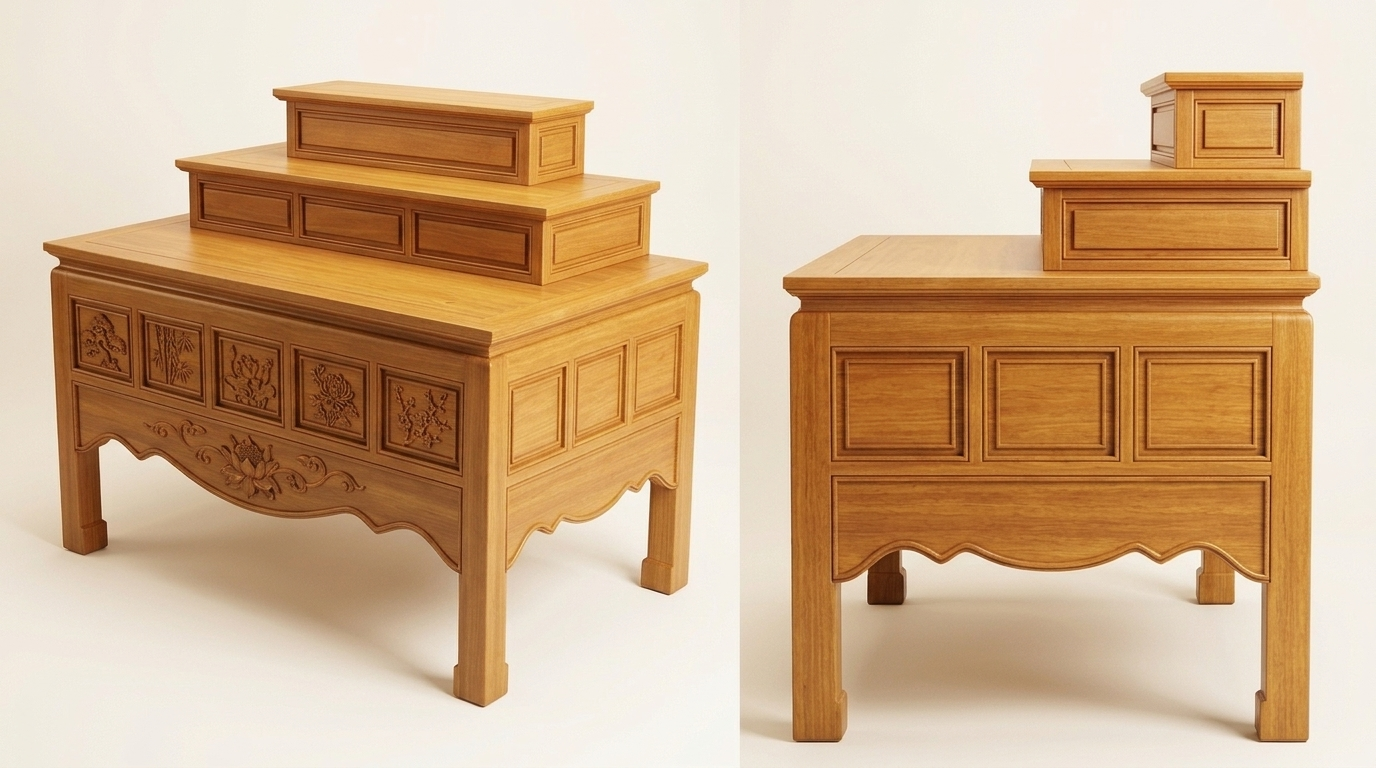
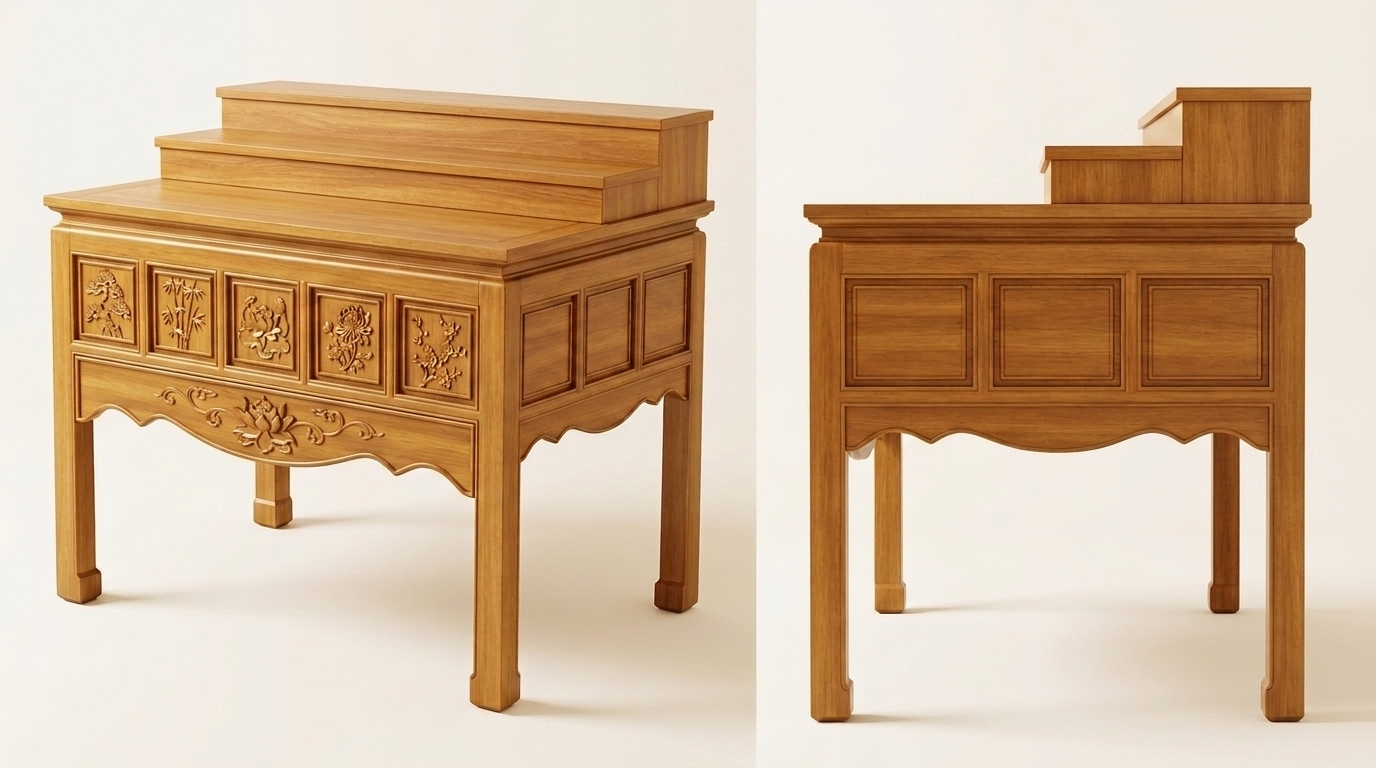
Update standalone Da D6 altar pack to equal-width 3-tier (1.97m all 3 tiers x 1.27m, 47cm Tam Cap) & remove tapered version

diff --git a/phong-tho-tang3.html b/phong-tho-tang3.html
@@ -1091,26 +1091,26 @@
     <!-- NEW TOP-MOST SECTION: BỘ ẢNH STUDIO RIÊNG BÀN THỜ ÁN GIAN Ô SA 5 Ô (DẠ D6) ĐỦ GÓC CHO THỢ MỘC (KHÔNG SẬP QUỲ) -->
     <section class="block" id="sec-ban-tho-rieng-da6-du-goc" style="border-color: rgba(52, 211, 153, 0.98); background: linear-gradient(180deg, rgba(6, 78, 59, 0.36), rgba(15, 21, 32, 0.99)); border-radius: 20px; padding: 28px 24px; margin-bottom: 22px;">
       <div class="section-hdr">
-        <span class="section-tag" style="background:rgba(16,185,129,0.28);border-color:rgba(52,211,153,0.98);color:#a7f3d0;">🪷 CHỐT BÀN THỜ RIÊNG CHO THỢ MỘC — TAM CẤP (3 CẤP) • DẠ D6 (ĐÃ TÁCH BỎ SẬP QUỲ)</span>
-        <h2 class="section-title">Bộ Ảnh Studio Riêng Bàn Thờ Tam Cấp Án Gian Ô Sa 5 Ô Tứ Quý — <code>Dạ D6</code> Đủ Mọi Góc (<code>1,97 m × 1,27 m</code> • Tam Cấp <code>47 cm</code>)</h2>
+        <span class="section-tag" style="background:rgba(16,185,129,0.28);border-color:rgba(52,211,153,0.98);color:#a7f3d0;">🪷 CHỐT BÀN THỜ RIÊNG CHO THỢ MỘC — 3 CẤP BẰNG NHAU CHIỀU DÀI (1,97M) • DẠ D6</span>
+        <h2 class="section-title">Bộ Ảnh Studio Riêng Bàn Thờ <code>3</code> Cấp Chiều Dài Bằng Nhau (<code>1,97 m × 1,27 m</code> • Tam Cấp <code>47 cm</code>) — Án Gian Ô Sa 5 Ô &amp; <code>Dạ D6</code> Đủ Mọi Góc</h2>
         <p class="section-sub">
-          Đã cập nhật chuẩn xác sang dáng <strong>Bàn Thờ TAM CẤP (`3` cấp)</strong> theo kích thước thợ báo: <strong>Bàn Dài <code>1,97 m</code> × Rộng/Sâu <code>1,27 m</code> (<code>1.970 × 1.270 mm</code>) • Phần Tam Cấp sau <code>47 cm</code> (<code>470 mm</code>) • Chừa mặt Cấp 1 trước rộng <code>80 cm</code> (<code>800 mm</code>)</strong>, dùng <strong><code>Dạ D6</code> đặc <code>40 mm</code> (<code>0%</code> đục lỗ)</strong> bằng Gỗ Gụ Lào tự nhiên PU mờ <code>15%</code> và <strong>đã xóa hoàn toàn bản 2 cấp sai trước đó</strong> để tránh nhầm khi gửi xưởng:
+          Đã chỉnh sang đúng kiểu <strong><code>3</code> Cấp có chiều dài bằng nhau hết (cả <code>Cấp 1 = Cấp 2 = Cấp 3 = 1,97 m</code> bằng đầu phẳng hai bên hông, không thu bậc hai đầu)</strong> theo đúng kích thước thợ báo: <strong>Bàn <code>1,97 m × 1,27 m</code> (<code>1.970 × 1.270 mm</code>), Phần Tam Cấp <code>47 cm</code> (<code>470 mm</code>), chừa mặt Cấp 1 trước <code>80 cm</code> (<code>800 mm</code>)</strong>, dùng <strong><code>Dạ D6</code> đặc <code>40 mm</code> (<code>0%</code> lỗ thủng)</strong> — Gỗ Gụ Lào tự nhiên PU mờ <code>15%</code>:
         </p>
       </div>
 
       <!-- FULL-WIDTH 6000x4200 PX ALL-IN-ONE MULTI-ANGLE CARPENTER PACK -->
       <article class="media-card" style="border-color:rgba(52,211,153,0.98);margin-bottom:20px;">
         <div class="media-hdr">
-          <h3>📐 Tấm Tổng Hợp Gửi Thợ Mộc <code>6K</code> (`6000 × 4200 px`): Bàn Thờ Riêng Tam Cấp <code>Dạ D6</code> Đủ <code>4</code> Góc (<code>1,97m × 1,27m</code> • Tam Cấp <code>47cm</code>)</h3>
+          <h3>📐 Tấm Tổng Hợp Gửi Thợ Mộc <code>6K</code> (`6000 × 4200 px`): Bàn Thờ Riêng <code>3</code> Cấp Bằng Nhau (<code>1,97m</code>) • <code>Dạ D6</code> Đủ <code>4</code> Góc</h3>
           <div class="btn-group">
-            <button type="button" class="btn" onclick="openModal('assets/tang3_phong_tho_ban_tho_rieng_da6_du_4_goc_6k.png', 'Tấm tổng hợp 6K (6000 × 4200 px) chỉ riêng Bàn Thờ Tam Cấp (3 cấp) Án Gian Ô Sa 5 Ô Tứ Quý Dạ D6 theo kích thước thợ báo: Dài 1,97m × Rộng 1,27m (1.970 × 1.270 mm), Phần Tam Cấp 47 cm (470 mm), chừa mặt Cấp 1 trước 80 cm (800 mm), Gỗ Gụ Lào tự nhiên PU mờ 15%, 0% đục lỗ')">🔍 Zoom 1:1 Hồ Sơ 6K</button>
-            <a class="btn celadon" href="assets/tang3_phong_tho_ban_tho_rieng_da6_du_4_goc_6k.png" download="HoSo_6K_BanThoRieng_TamCap_1m97x1m27_DaD6_Du4Goc.png">⬇ Tải Tấm 6K Đủ 4 Góc PNG</a>
+            <button type="button" class="btn" onclick="openModal('assets/tang3_phong_tho_ban_tho_rieng_da6_du_4_goc_6k.png', 'Tấm tổng hợp 6K (6000 × 4200 px) riêng Bàn Thờ 3 cấp có chiều dài bằng nhau hết 1,97m (Cấp 1 = Cấp 2 = Cấp 3 = 1.970 mm) × Rộng 1.270 mm, Phần Tam Cấp 47 cm (470 mm), chừa mặt trước 80 cm (800 mm), Án Gian Ô Sa 5 Ô Tứ Quý Dạ D6 0% lỗ thủng gửi thợ mộc')">🔍 Zoom 1:1 Hồ Sơ 6K</button>
+            <a class="btn celadon" href="assets/tang3_phong_tho_ban_tho_rieng_da6_du_4_goc_6k.png" download="HoSo_6K_BanThoRieng_3CapBangNhau_1m97x1m27_DaD6.png">⬇ Tải Tấm 6K Đủ 4 Góc PNG</a>
           </div>
         </div>
         <div class="media-img-wrap">
           <img
             src="assets/tang3_phong_tho_ban_tho_rieng_da6_du_4_goc_6k.png"
-            alt="Tấm tổng hợp 6K 6000x4200 px hồ sơ gửi thợ mộc riêng bàn thờ Tam Cấp 3 cấp Án Gian Ô Sa 5 ô Tứ Quý Dạ D6 dài 1,97m rộng 1,27m phần tam cấp 47cm"
+            alt="Tấm tổng hợp 6K 6000x4200 px hồ sơ gửi thợ mộc riêng bàn thờ 3 cấp chiều dài bằng nhau 1,97m x 1,27m phần tam cấp 47cm Dạ D6"
             width="6000"
             height="4200"
             fetchpriority="high"
@@ -1118,7 +1118,7 @@
           />
         </div>
         <p class="media-caption">
-          <strong>Chỉ cần gửi 1 tấm <code>6K</code> này cho thợ mộc là đủ thi công:</strong> Đầy đủ <code>03</code> góc ảnh Studio Tam Cấp + hình chiếu kỹ thuật <code>1.970 × 1.270 mm</code> (Phần Tam Cấp `Cấp 2 + Cấp 3` sâu <code>470 mm / 47 cm</code>, chừa mặt Cấp 1 trước <code>800 mm / 80 cm</code>, hốc giấu ổ cắm <code>Y=950</code>) + cận cảnh <code>Dạ D6</code>.
+          <strong>Chỉ cần gửi 1 tấm <code>6K</code> này cho thợ mộc là đủ thi công:</strong> Gồm ảnh Studio <code>0°</code> + <code>45°/90°</code> của bản <strong><code>3</code> cấp dài bằng nhau <code>1,97 m</code></strong>, hình chiếu kỹ thuật <code>1.970 × 1.270 mm</code> (Tam Cấp `Cấp 2 + Cấp 3` sâu <code>470 mm / 47 cm</code>, chừa mặt trước <code>800 mm / 80 cm</code>, hốc giấu ổ cắm <code>Y=950</code>) + cận cảnh <code>Dạ D6</code>.
         </p>
       </article>
 
@@ -1126,60 +1126,60 @@
       <div class="render-grid" style="margin-bottom:20px;">
         <article class="media-card" style="border-color:rgba(250,204,21,0.95);">
           <div class="media-hdr">
-            <h3>🪵 Ảnh Studio #17 — Riêng Bàn Thờ Tam Cấp <code>Dạ D6</code> Góc Chính Diện <code>0°</code> Cỡ Lớn (Đủ <code>3</code> Cấp)</h3>
+            <h3>🪵 Ảnh Studio #17 — Riêng Bàn Thờ <code>3</code> Cấp Bằng Nhau (<code>1,97m</code>) • Góc Chính Diện <code>0°</code> Cỡ Lớn</h3>
             <div class="btn-group">
-              <button type="button" class="btn" onclick="openModal('assets/17_studio_rieng_ban_tho_da6_chinh_dien_0do_co_lon.jpg', 'Ảnh Studio 17 — Chính diện 0° cỡ lớn chỉ riêng Bàn Thờ Tam Cấp (3 cấp: Cấp 1 + Cấp 2 + Cấp 3) Án Gian Ô Sa 5 Ô Tứ Quý (1,97m × 1,27m, Tam cấp 47cm), Dạ D6 đặc 40mm 0% đục lỗ, Đóa Sen Đại & Mây Cuốn tập trung ở tâm')">🔍 Phóng to 0°</button>
-              <a class="btn celadon" href="assets/17_studio_rieng_ban_tho_da6_chinh_dien_0do_co_lon.jpg" download="17_Studio_BanThoTamCap_DaD6_ChinhDien_0Do.jpg">⬇ Tải Ảnh 17</a>
+              <button type="button" class="btn" onclick="openModal('assets/17_studio_rieng_ban_tho_da6_chinh_dien_0do_co_lon.jpg', 'Ảnh Studio 17 — Chính diện 0° cỡ lớn chỉ riêng Bàn Thờ 3 Cấp dài bằng nhau hết 1,97m (Cấp 1 = Cấp 2 = Cấp 3 bằng đầu phẳng 2 bên), Án Gian Ô Sa 5 Ô Tứ Quý, Dạ D6 đặc 40mm 0% đục lỗ, Đóa Sen Đại & Mây Cuốn tập trung ở tâm')">🔍 Phóng to 0°</button>
+              <a class="btn celadon" href="assets/17_studio_rieng_ban_tho_da6_chinh_dien_0do_co_lon.jpg" download="17_Studio_BanTho3CapBangNhau_DaD6_ChinhDien_0Do.jpg">⬇ Tải Ảnh 17</a>
             </div>
           </div>
           <div class="media-img-wrap">
             <img
               src="assets/17_studio_rieng_ban_tho_da6_chinh_dien_0do_co_lon.jpg"
-              alt="Ảnh Studio 17 chính diện 0 độ cỡ lớn chỉ riêng bàn thờ Tam Cấp 3 cấp Án Gian Ô Sa 5 ô Tứ Quý Dạ D6 gỗ Gụ Lào tự nhiên"
+              alt="Ảnh Studio 17 chính diện 0 độ cỡ lớn bàn thờ 3 cấp có chiều dài bằng nhau 1,97m Dạ D6 gỗ Gụ Lào tự nhiên"
               width="1376"
               height="768"
               loading="lazy"
               onclick="openModal(this.src, this.alt)"
             />
           </div>
-          <p class="media-caption">Hiện rõ trọn <strong><code>3</code> bậc Tam Cấp (<code>Cấp 1</code> mặt bàn chính → <code>Cấp 2</code> bậc giữa → <code>Cấp 3</code> bậc đỉnh)</strong>, <code>5</code> Ô Tứ Quý (<code>Tùng–Trúc–Sen–Cúc–Mai</code>) và <strong><code>Dạ D6</code> Sen Đại tâm, 2 cánh trơn</strong>.</p>
+          <p class="media-caption">Cả <strong><code>3</code> cấp đều dài kịch <code>1,97 m</code> bằng đầu hai bên</strong> (mỗi cấp chia <code>5</code> ô cân trục với <code>5</code> Ô Tứ Quý <code>Tùng–Trúc–Sen–Cúc–Mai</code> bên dưới) kết hợp <strong><code>Dạ D6</code> Sen Đại tâm</strong>.</p>
         </article>
 
         <article class="media-card" style="border-color:rgba(245,158,11,0.95);">
           <div class="media-hdr">
-            <h3>🪵 Ảnh Studio #18 — Riêng Bàn Thờ Tam Cấp <code>Dạ D6</code> Góc Nghiêng <code>3/4 (45°)</code> &amp; Mặt Hông <code>90°</code></h3>
+            <h3>🪵 Ảnh Studio #18 — Riêng Bàn Thờ <code>3</code> Cấp Bằng Nhau • Góc Nghiêng <code>3/4 (45°)</code> &amp; Hông <code>90°</code></h3>
             <div class="btn-group">
-              <button type="button" class="btn" onclick="openModal('assets/18_studio_rieng_ban_tho_da6_goc_nghieng_3_4_va_hong_90do.jpg', 'Ảnh Studio 18 — Góc nghiêng 3/4 (45°) bên trái và Mặt hông 90° bên phải của riêng Bàn Thờ Tam Cấp 3 cấp Dạ D6 (1,97m × 1,27m, phần Tam cấp sâu 47cm, chừa mặt trước 80cm): thấy rõ 3 ô sa hông trơn, dạ hông lượn sóng bo chỉ và đủ 3 bậc Tam Cấp')">🔍 Phóng to 45°/90°</button>
-              <a class="btn celadon" href="assets/18_studio_rieng_ban_tho_da6_goc_nghieng_3_4_va_hong_90do.jpg" download="18_Studio_BanThoTamCap_DaD6_Goc3_4_Va_Hong90.jpg">⬇ Tải Ảnh 18</a>
+              <button type="button" class="btn" onclick="openModal('assets/18_studio_rieng_ban_tho_da6_goc_nghieng_3_4_va_hong_90do.jpg', 'Ảnh Studio 18 — Góc nghiêng 3/4 (45°) bên trái và Mặt hông 90° bên phải của bàn thờ 3 cấp dài bằng nhau hết 1,97m × 1,27m (Tam Cấp 47cm): thấy rõ đầu hồi phẳng thẳng đứng bằng nhau cả 3 cấp, 3 ô sa hông trơn và dạ hông lượn sóng bo chỉ')">🔍 Phóng to 45°/90°</button>
+              <a class="btn celadon" href="assets/18_studio_rieng_ban_tho_da6_goc_nghieng_3_4_va_hong_90do.jpg" download="18_Studio_BanTho3CapBangNhau_DaD6_Goc3_4_Va_Hong90.jpg">⬇ Tải Ảnh 18</a>
             </div>
           </div>
           <div class="media-img-wrap">
             <img
               src="assets/18_studio_rieng_ban_tho_da6_goc_nghieng_3_4_va_hong_90do.jpg"
-              alt="Ảnh Studio 18 góc nghiêng 3/4 và góc mặt hông 90 độ của riêng bàn thờ Tam Cấp 3 cấp Án Gian Ô Sa 5 ô Dạ D6 1,97m x 1,27m"
+              alt="Ảnh Studio 18 góc nghiêng 3/4 và góc mặt hông 90 độ của bàn thờ 3 cấp dài bằng nhau hết 1,97m x 1,27m Dạ D6"
               width="1376"
               height="768"
               loading="lazy"
               onclick="openModal(this.src, this.alt)"
             />
           </div>
-          <p class="media-caption">Thấy rõ chiều rộng/sâu bàn <strong><code>1,27 m (1.270 mm)</code></strong>, <strong>phần Tam Cấp <code>47 cm (470 mm)</code></strong> giật <code>2</code> bậc lên ở phía sau (chừa mặt <code>Cấp 1</code> trước <code>80 cm</code>), <code>3</code> ô hông trơn &amp; dạ hông lượn sóng bo chỉ.</p>
+          <p class="media-caption">Hai bên hông của <code>Cấp 2</code> &amp; <code>Cấp 3</code> <strong>phẳng thẳng hàng với mép hông bàn <code>1,27 m</code></strong>, không có hốc hở bám bụi ở hai góc hậu mà vẫn chừa đủ mặt trước <code>80 cm</code> &amp; <code>47 cm</code> bậc sau.</p>
         </article>
       </div>
 
       <!-- FULL-WIDTH MULTI-VIEW STUDIO PHOTO 16 (3 ANGLES SIDE-BY-SIDE IN 1 FRAME) -->
       <article class="media-card" style="border-color:rgba(56,189,248,0.92);">
         <div class="media-hdr">
-          <h3>🪵 Ảnh Studio #16 — Trọn <code>03</code> Góc Trên <code>01</code> Ảnh Bàn Thờ Tam Cấp <code>Dạ D6</code> (<code>0°</code> • <code>45°</code> • <code>90°</code>)</h3>
+          <h3>🪵 Ảnh Studio #16 — Trọn <code>03</code> Góc Trên <code>01</code> Ảnh Bàn Thờ <code>3</code> Cấp Bằng Nhau <code>1,97m</code> (<code>0°</code> • <code>45°</code> • <code>90°</code>)</h3>
           <div class="btn-group">
-            <button type="button" class="btn" onclick="openModal('assets/16_studio_rieng_ban_tho_da6_du_3_goc_tho_moc.jpg', 'Ảnh Studio 16 — 3 góc nhìn trên cùng 1 ảnh phông Studio sáng của riêng Bàn Thờ Tam Cấp 3 cấp Án Gian Ô Sa 5 Ô Dạ D6 (trái 0°, giữa 45° nghiêng 3/4, phải 90° mặt hông đủ 3 bậc Tam Cấp 1,97m × 1,27m, Tam Cấp 47cm)')">🔍 Phóng to 3 Góc</button>
-            <a class="btn celadon" href="assets/16_studio_rieng_ban_tho_da6_du_3_goc_tho_moc.jpg" download="16_Studio_BanThoTamCap_DaD6_Du3Goc_Tren1Anh.jpg">⬇ Tải Ảnh 16</a>
+            <button type="button" class="btn" onclick="openModal('assets/16_studio_rieng_ban_tho_da6_du_3_goc_tho_moc.jpg', 'Ảnh Studio 16 — 3 góc nhìn trên cùng 1 ảnh Studio của Bàn Thờ 3 Cấp có chiều dài bằng nhau hết 1,97m × 1,27m (Tam Cấp 47cm) Dạ D6: Chính diện 0°, Nghiêng 3/4 45°, Mặt hông 90°')">🔍 Phóng to 3 Góc</button>
+            <a class="btn celadon" href="assets/16_studio_rieng_ban_tho_da6_du_3_goc_tho_moc.jpg" download="16_Studio_BanTho3CapBangNhau_DaD6_Du3Goc.jpg">⬇ Tải Ảnh 16</a>
           </div>
         </div>
         <div class="media-img-wrap">
           <img
             src="assets/16_studio_rieng_ban_tho_da6_du_3_goc_tho_moc.jpg"
-            alt="Ảnh Studio 16 tổng hợp 3 góc 0 độ, 45 độ và 90 độ trên cùng 1 khung hình của riêng bàn thờ Tam Cấp 3 cấp Án Gian Ô Sa Dạ D6"
+            alt="Ảnh Studio 16 tổng hợp 3 góc 0 độ, 45 độ và 90 độ trên cùng 1 khung hình của bàn thờ 3 cấp chiều dài bằng nhau 1,97m Dạ D6"
             width="1376"
             height="768"
             loading="lazy"
